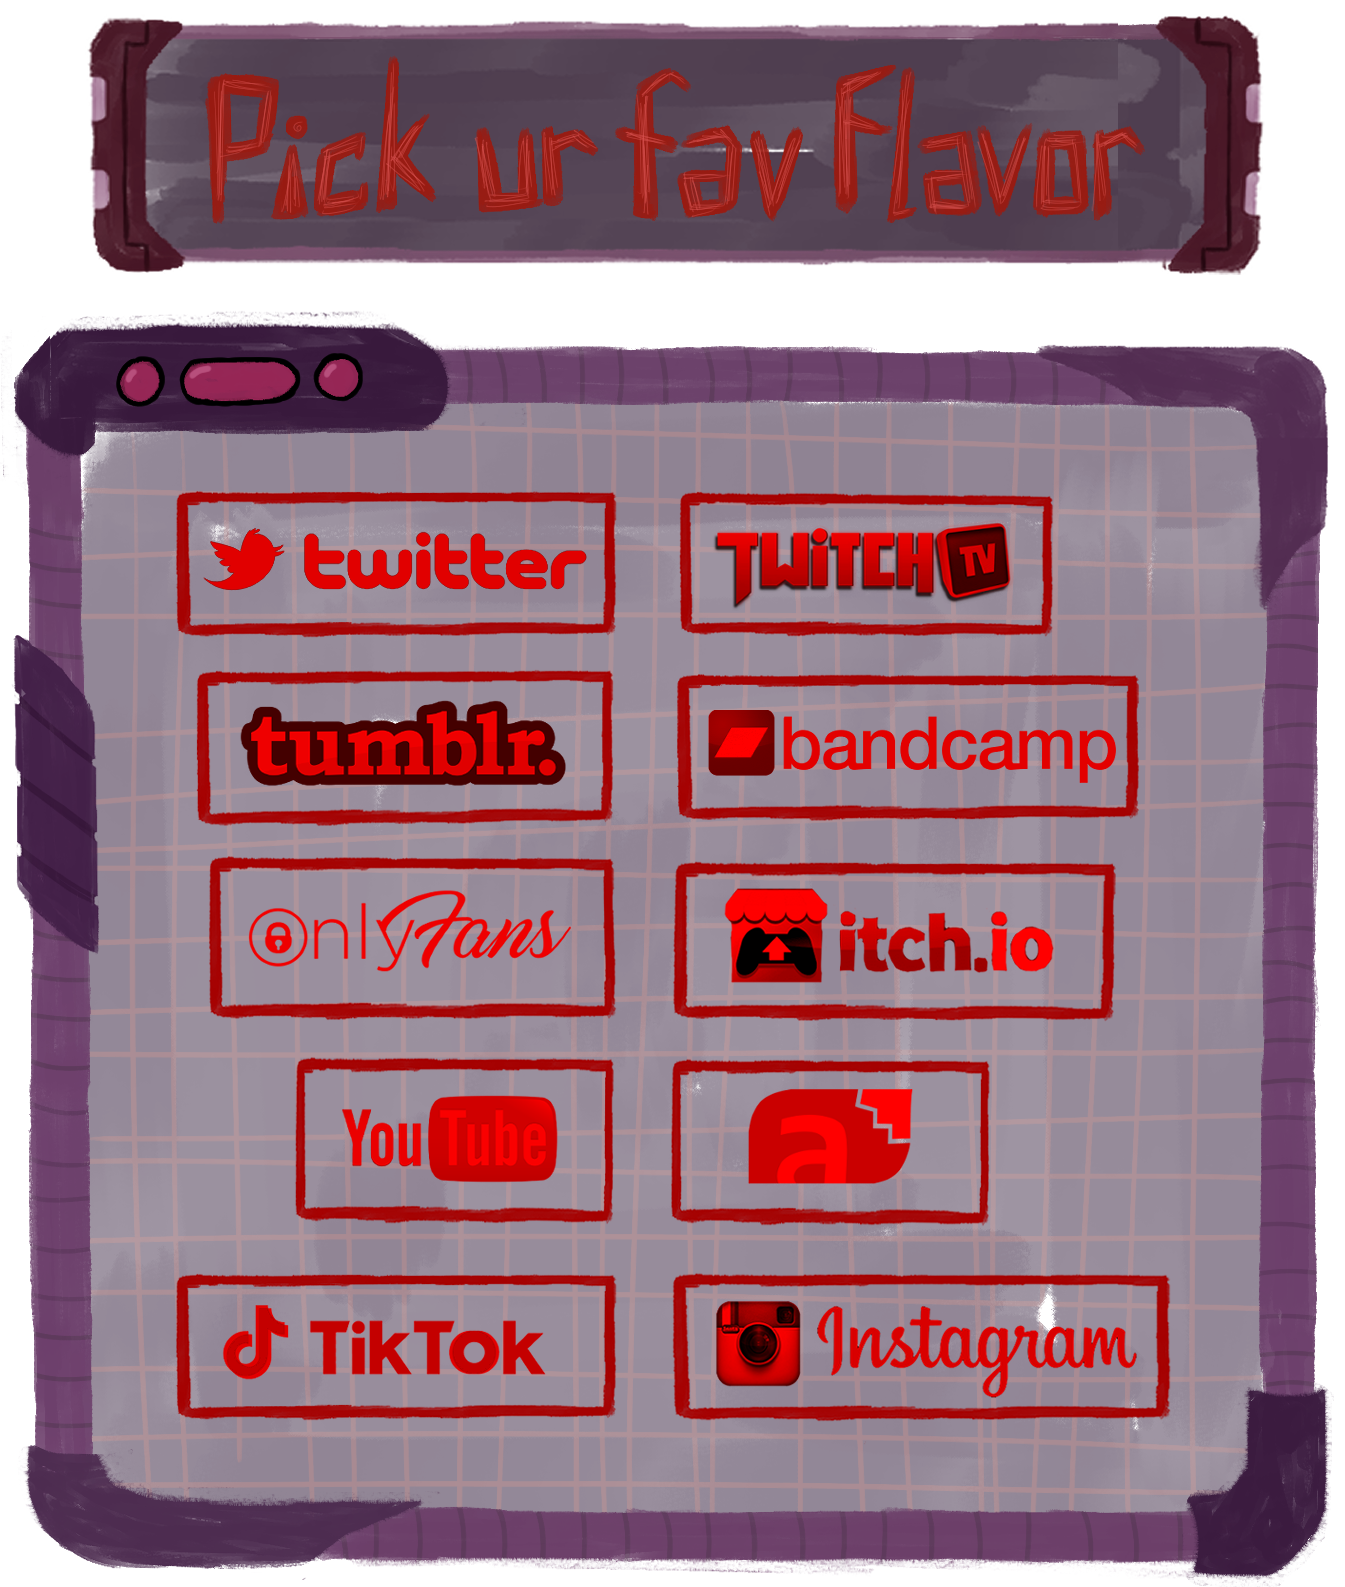
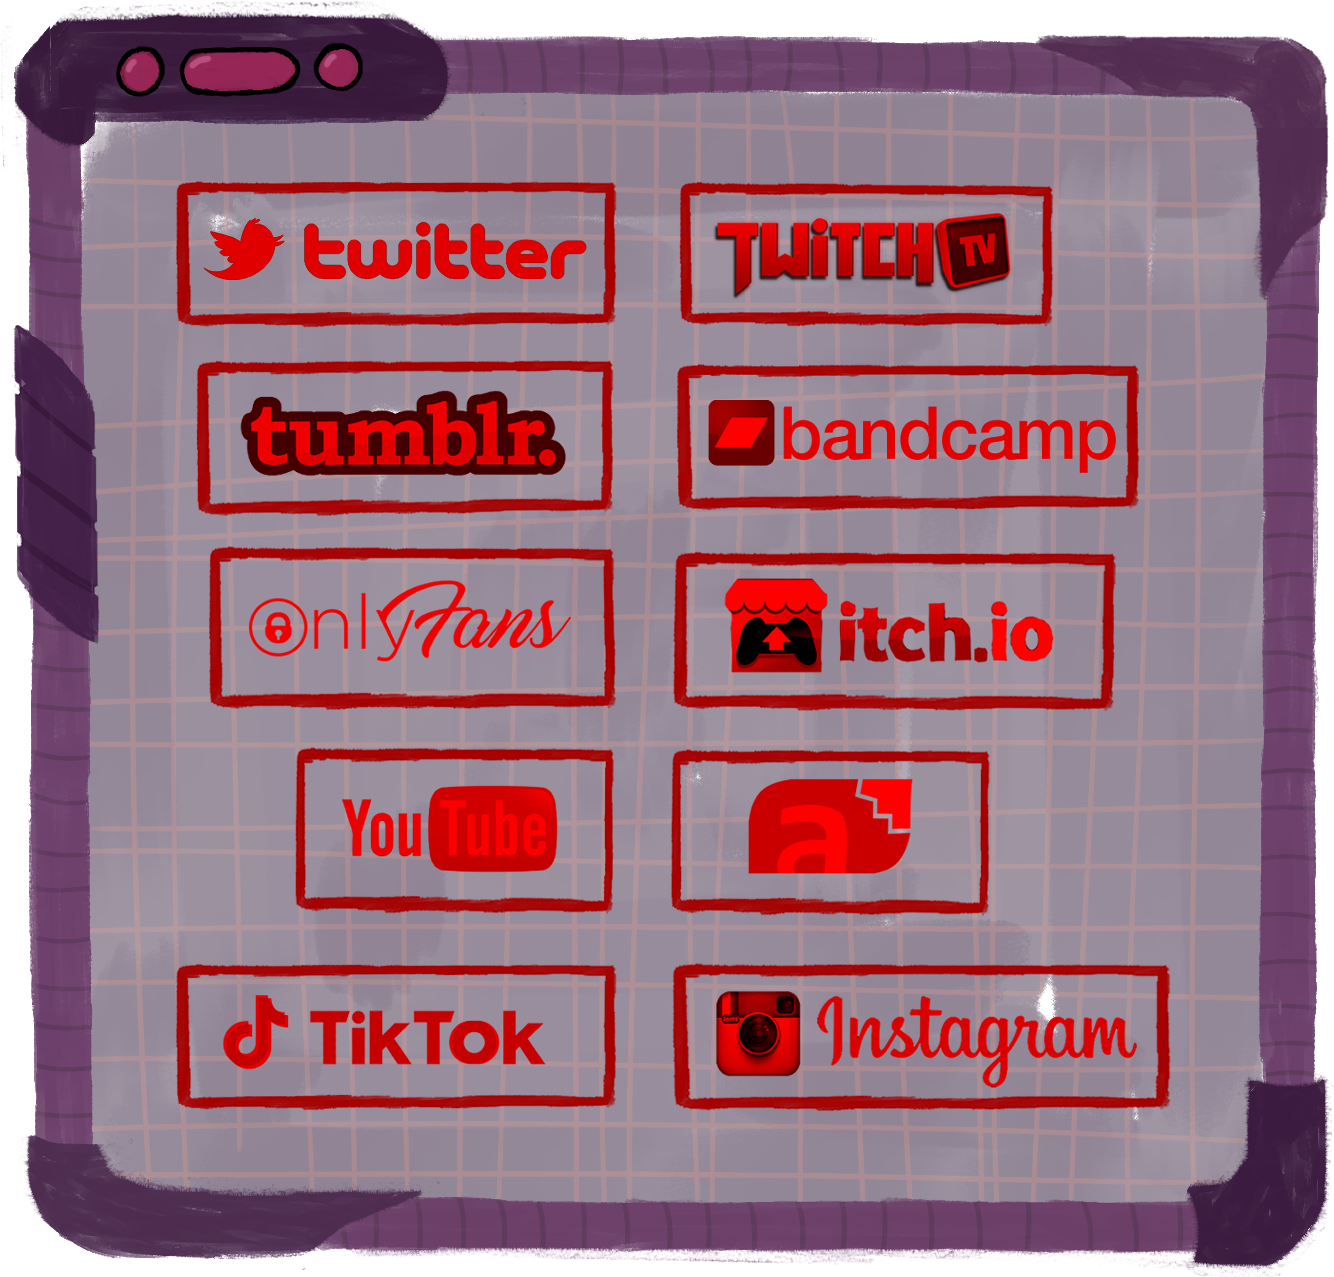
woah hey

diff --git a/connect.html b/connect.html
@@ -40,16 +40,16 @@
 	<!-- #$-:Please do not edit lines starting with "#$" -->
 	<!-- #$VERSION:2.3 -->
 	<!-- #$AUTHOR:Simonne Louise -->
-	<area shape="rect" coords="121,339,422,433" href="https://twitter.com/wiredwormz" />
-	<area shape="rect" coords="144,591,423,697" href="https://crouton.net" />
-	<area shape="rect" coords="467,338,723,436" href="https://www.twitch.tv/wiredwormz" />
-	<area shape="rect" coords="134,464,420,564" href="https://www.tumblr.com/wiredwormz" />
-	<area shape="rect" coords="203,728,423,837" href="https://www.youtube.com/channel/UCX-Zr3wph5cIksHiYYXa-Pw" />
-	<area shape="rect" coords="463,728,681,843" href="https://www.furaffinity.net/user/xxd4rlingp4wzxx" />
-	<area shape="rect" coords="120,877,423,974" href="https://tiktok.com/t/ZTRnKpeco/" />
-	<area shape="rect" coords="463,876,805,977" href="https://instagram.com/wiredwormz.quest" />
-	<area shape="rect" coords="462,593,766,701" href="https://wiredwormz.itch.io/" />
-	<area shape="rect" coords="464,464,784,563" href="https://wiredwormz.bandcamp.com/" />
+	<area shape="rect" coords="122,127,425,222" href="https://twitter.com/wiredwormz" />
+<area shape="rect" coords="471,127,728,224" href="https://www.twitch.tv/wiredwormz" />
+<area shape="rect" coords="135,251,424,355" href="https://www.tumblr.com/wiredwormz" />
+<area shape="rect" coords="470,253,788,352" href="https://wiredwormz.bandcamp.com/" />
+<area shape="rect" coords="146,382,426,490" href="https://crouton.net" />
+<area shape="rect" coords="470,386,773,488" href="https://wiredwormz.itch.io/" />
+<area shape="rect" coords="204,522,426,633" href="https://www.youtube.com/channel/UCX-Zr3wph5cIksHiYYXa-Pw" />
+<area shape="rect" coords="469,521,685,631" href="https://www.furaffinity.net/user/xxd4rlingp4wzxx" />
+<area shape="rect" coords="123,671,423,765" href="https://tiktok.com/t/ZTRnKpeco/" />
+<area shape="rect" coords="466,671,811,769" href="https://instagram.com/wiredwormz.quest" />
 	</map>
 	
 	<map name="donatemap">

diff --git a/[connect] (exported).html b/[connect] (exported).html
@@ -1,0 +1,19 @@
+<img src="[connect] (exported)" width="925" height="885" border="0" usemap="#map" />
+
+<map name="map">
+<!-- #$-:Image map file created by GIMP Image Map plug-in -->
+<!-- #$-:GIMP Image Map plug-in by Maurits Rijk -->
+<!-- #$-:Please do not edit lines starting with "#$" -->
+<!-- #$VERSION:2.3 -->
+<!-- #$AUTHOR:mo.exe -->
+<area shape="rect" coords="122,127,425,222" href="https://twitter.com/wiredwormz" />
+<area shape="rect" coords="471,127,728,224" href="https://www.twitch.tv/wiredwormz" />
+<area shape="rect" coords="135,251,424,355" href="https://www.tumblr.com/wiredwormz" />
+<area shape="rect" coords="470,253,788,352" href="https://wiredwormz.bandcamp.com/" />
+<area shape="rect" coords="146,382,426,490" href="https://crouton.net" />
+<area shape="rect" coords="470,386,773,488" href="https://wiredwormz.itch.io/" />
+<area shape="rect" coords="204,522,426,633" href="https://www.youtube.com/channel/UCX-Zr3wph5cIksHiYYXa-Pw" />
+<area shape="rect" coords="469,521,685,631" href="https://www.furaffinity.net/user/xxd4rlingp4wzxx" />
+<area shape="rect" coords="123,671,423,765" href="https://tiktok.com/t/ZTRnKpeco/" />
+<area shape="rect" coords="466,671,811,769" href="https://instagram.com/wiredwormz.quest" />
+</map>
